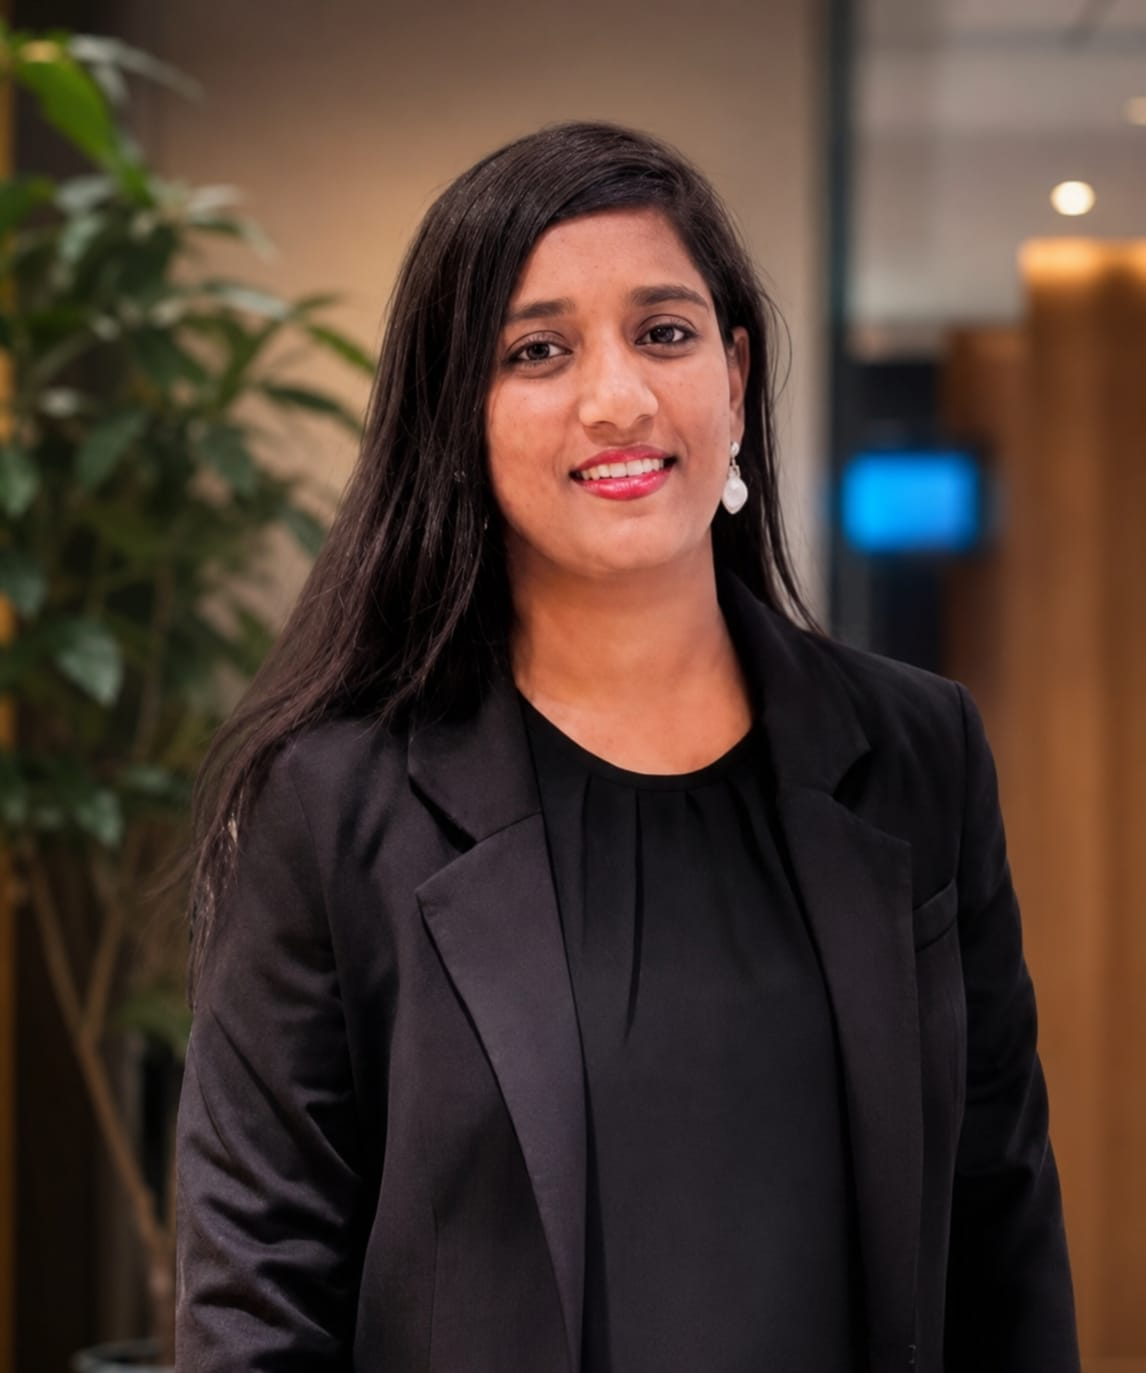
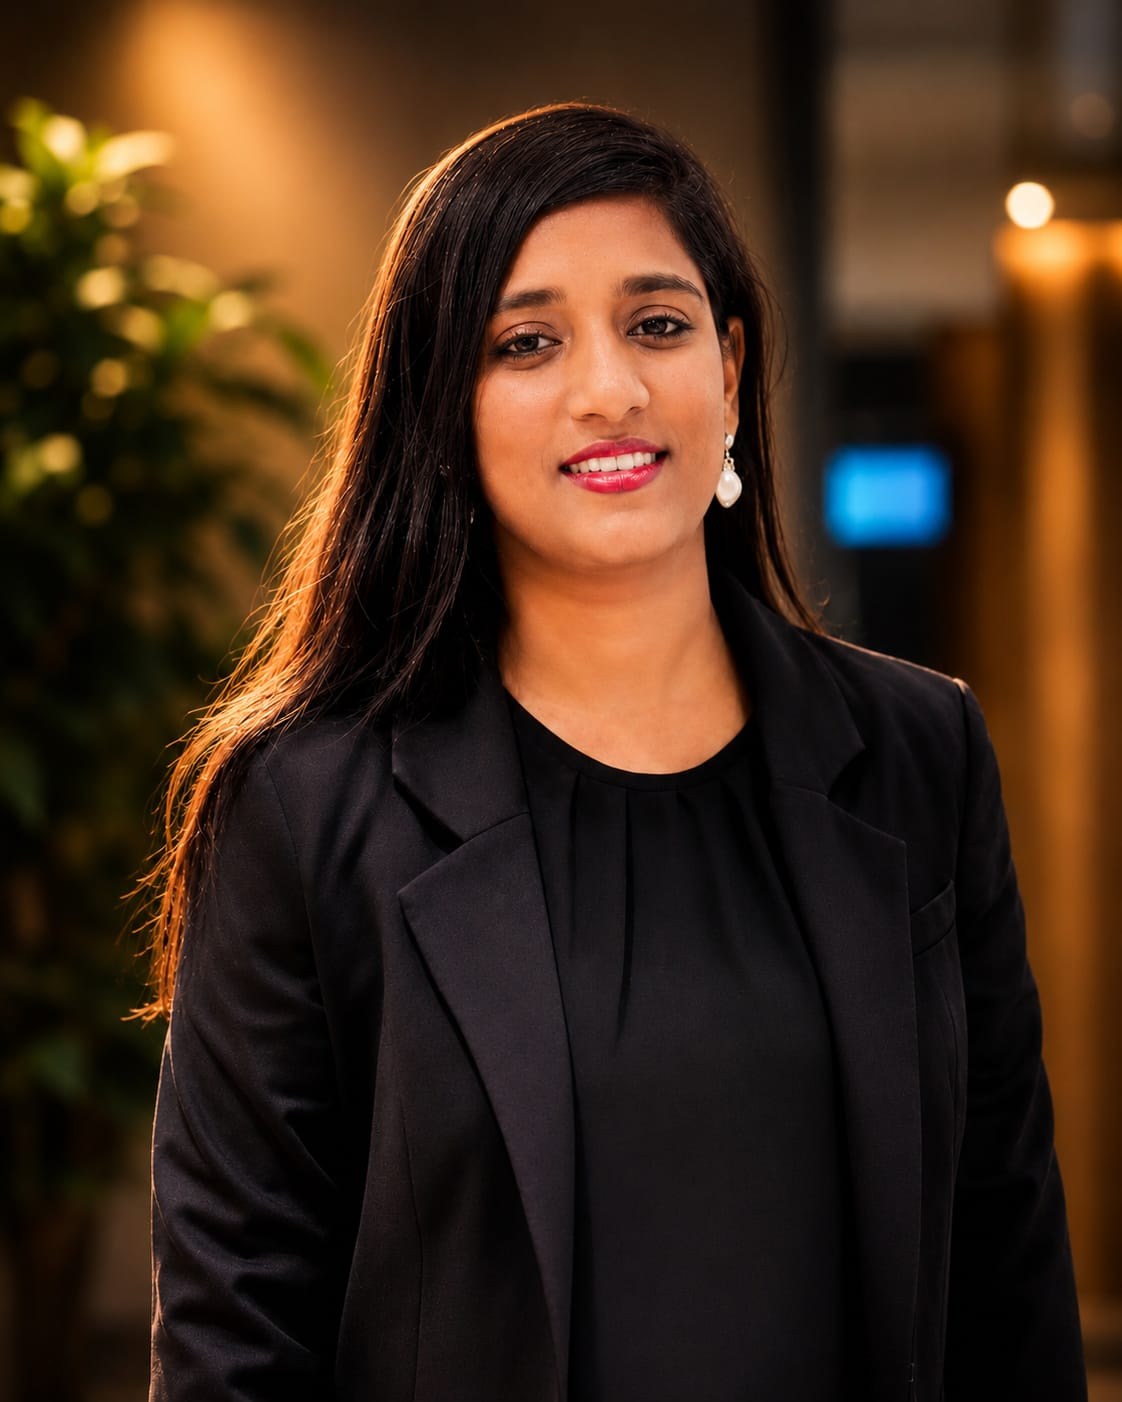
Update products and website content

diff --git a/src/pages/Home.jsx b/src/pages/Home.jsx
@@ -127,16 +127,18 @@ const Home = () => {
               rotate: { duration: 10, repeat: Infinity, ease: "easeInOut" }
             }}
             style={{ 
-              width: 'clamp(350px, 68vw, 900px)', 
+              width: 'clamp(300px, 50vw, 600px)', 
               height: 'auto', 
-              marginTop: '100px',
-              opacity: 0.45, 
-              filter: 'blur(1px) drop-shadow(0 0 80px rgba(255,204,0,0.8))' 
+              marginTop: '80px',
+              opacity: 0.7, 
+              filter: 'drop-shadow(0 0 30px rgba(255,204,0,0.3)) contrast(1.1) brightness(1.1)',
+              imageRendering: '-webkit-optimize-contrast',
+              WebkitFontSmoothing: 'antialiased'
             }} 
           />
         </motion.div>
 
-        <div className="container" style={{ textAlign: 'center', zIndex: 1, perspective: '1000px' }}>
+        <div className="container" style={{ textAlign: 'center', zIndex: 1, perspective: '1000px', paddingTop: 'clamp(1rem, 10vw, 6rem)' }}>
           <motion.div
             initial={{ opacity: 0, rotateX: 45, y: 100, translateZ: -200 }}
             animate={{ opacity: 1, rotateX: 0, y: 0, translateZ: 0 }}
@@ -151,11 +153,11 @@ const Home = () => {
                 className="radial-text-gradient"
                 animate={{ scale: [1, 1.05, 1] }}
                 transition={{ duration: 4, repeat: Infinity, ease: "easeInOut" }}
-                style={{ display: 'inline-block', fontSize: 'clamp(2rem, 8vw, 5rem)', fontWeight: 900, filter: 'drop-shadow(0 0 20px rgba(255, 204, 0, 0.8))' }}
+                style={{ display: 'inline-block', fontSize: 'clamp(2rem, 8vw, 5rem)', fontWeight: 900 }}
               >
                 OZIROTECH
               </motion.span> <br />
-              <span className="text-gradient" style={{ display: 'inline-block', fontSize: 'clamp(1rem, 5.5vw, 2.5rem)', marginTop: '0.5rem', fontWeight: 800, filter: 'drop-shadow(0 0 15px rgba(255, 102, 0, 0.6))' }}>
+              <span className="text-gradient" style={{ display: 'inline-block', fontSize: 'clamp(1rem, 5.5vw, 2.5rem)', marginTop: '1rem', fontWeight: 800 }}>
                 AI WORLD PRIVATE LIMITED
               </span>
             </h1>

diff --git a/src/index.css b/src/index.css
@@ -92,9 +92,9 @@ h1, h2, h3, h4, h5, h6 {
 }
 
 @keyframes radialPulse {
-  0% { background-position: 0% 0%; filter: drop-shadow(0 0 15px rgba(255, 204, 0,0.6)); }
-  50% { background-position: 100% 100%; filter: drop-shadow(0 0 25px rgba(255, 102, 0,0.8)); }
-  100% { background-position: 50% 0%; filter: drop-shadow(0 0 15px rgba(255, 215, 0,0.6)); }
+  0% { background-position: 0% 0%; }
+  50% { background-position: 100% 100%; }
+  100% { background-position: 50% 0%; }
 }
 
 @keyframes float3D {

diff --git a/src/pages/Products.jsx b/src/pages/Products.jsx
@@ -11,8 +11,8 @@ const Products = () => {
   return (
     <div style={{ paddingTop: '120px', paddingBottom: '100px', position: 'relative', minHeight: '100vh' }}>
       <div className="scanline-overlay"></div>
-      
-      <section style={{ position: 'relative', zIndex: 2, width: '100%', padding: '0 2rem' }}>
+
+      <section style={{ position: 'relative', zIndex: 2, width: '95%', padding: '0 2rem' }}>
         <motion.div
           initial={{ opacity: 0, y: -50 }}
           animate={{ opacity: 1, y: 0 }}

diff --git a/src/pages/About.jsx b/src/pages/About.jsx
@@ -234,7 +234,7 @@ const About = () => {
             >
               {/* Image */}
               <div style={{ width: '100%', height: '380px', overflow: 'hidden' }}>
-                <img src={leader.image} alt={leader.name} style={{ width: '100%', height: '100%', objectFit: 'cover' }} />
+                <img src={leader.image} alt={leader.name} style={{ width: '100%', height: '100%', objectFit: 'cover', imageRendering: '-webkit-optimize-contrast', transform: 'translateZ(0) scale(1)', filter: 'contrast(1.1) saturate(1.1) brightness(1.02)', WebkitFontSmoothing: 'antialiased' }} />
               </div>
 
               {/* Content Box */}